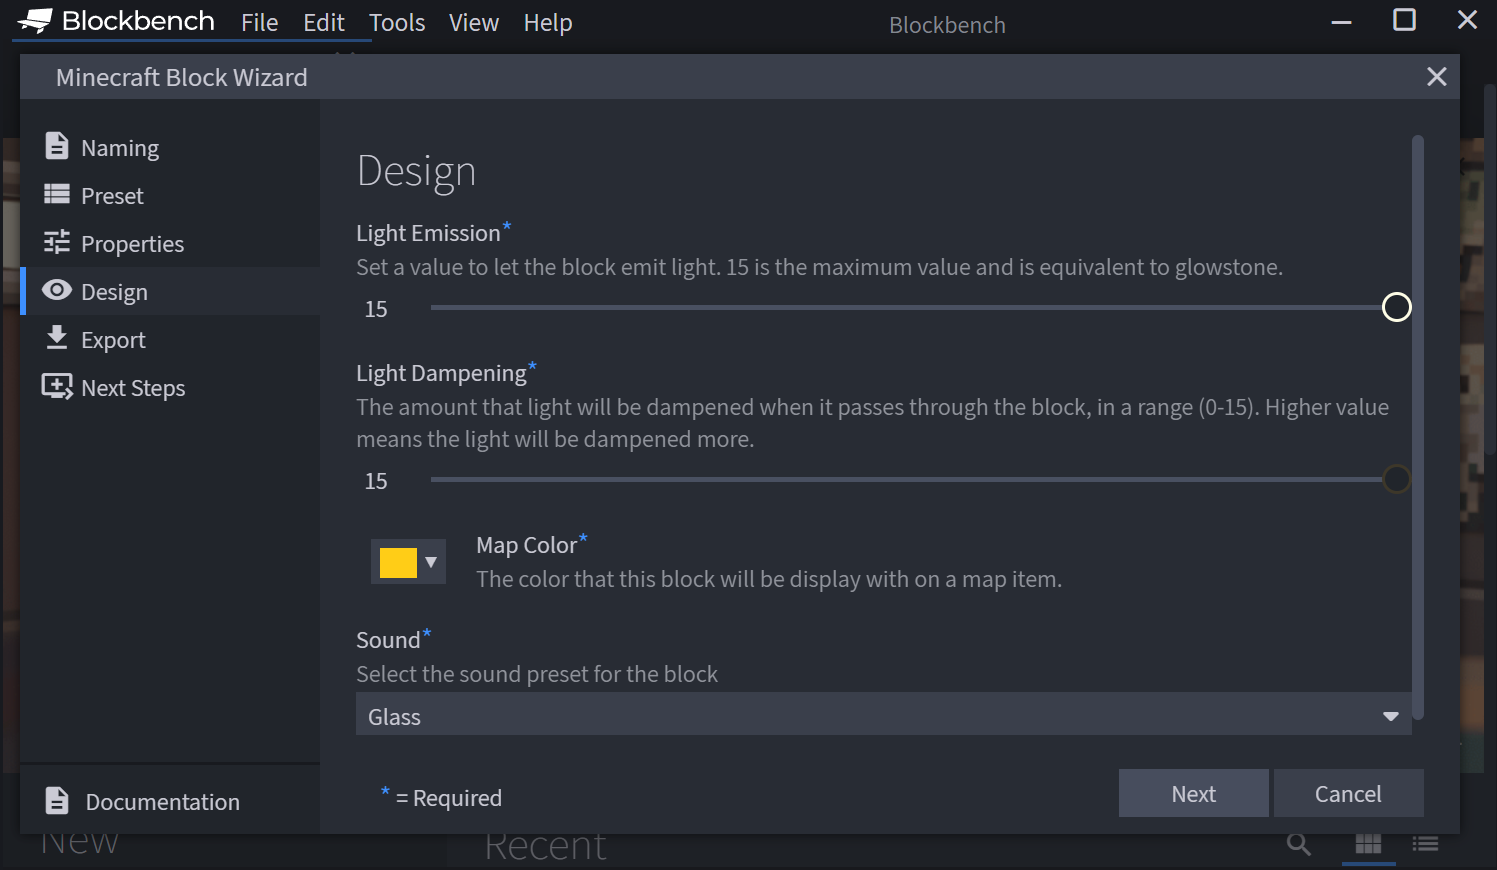
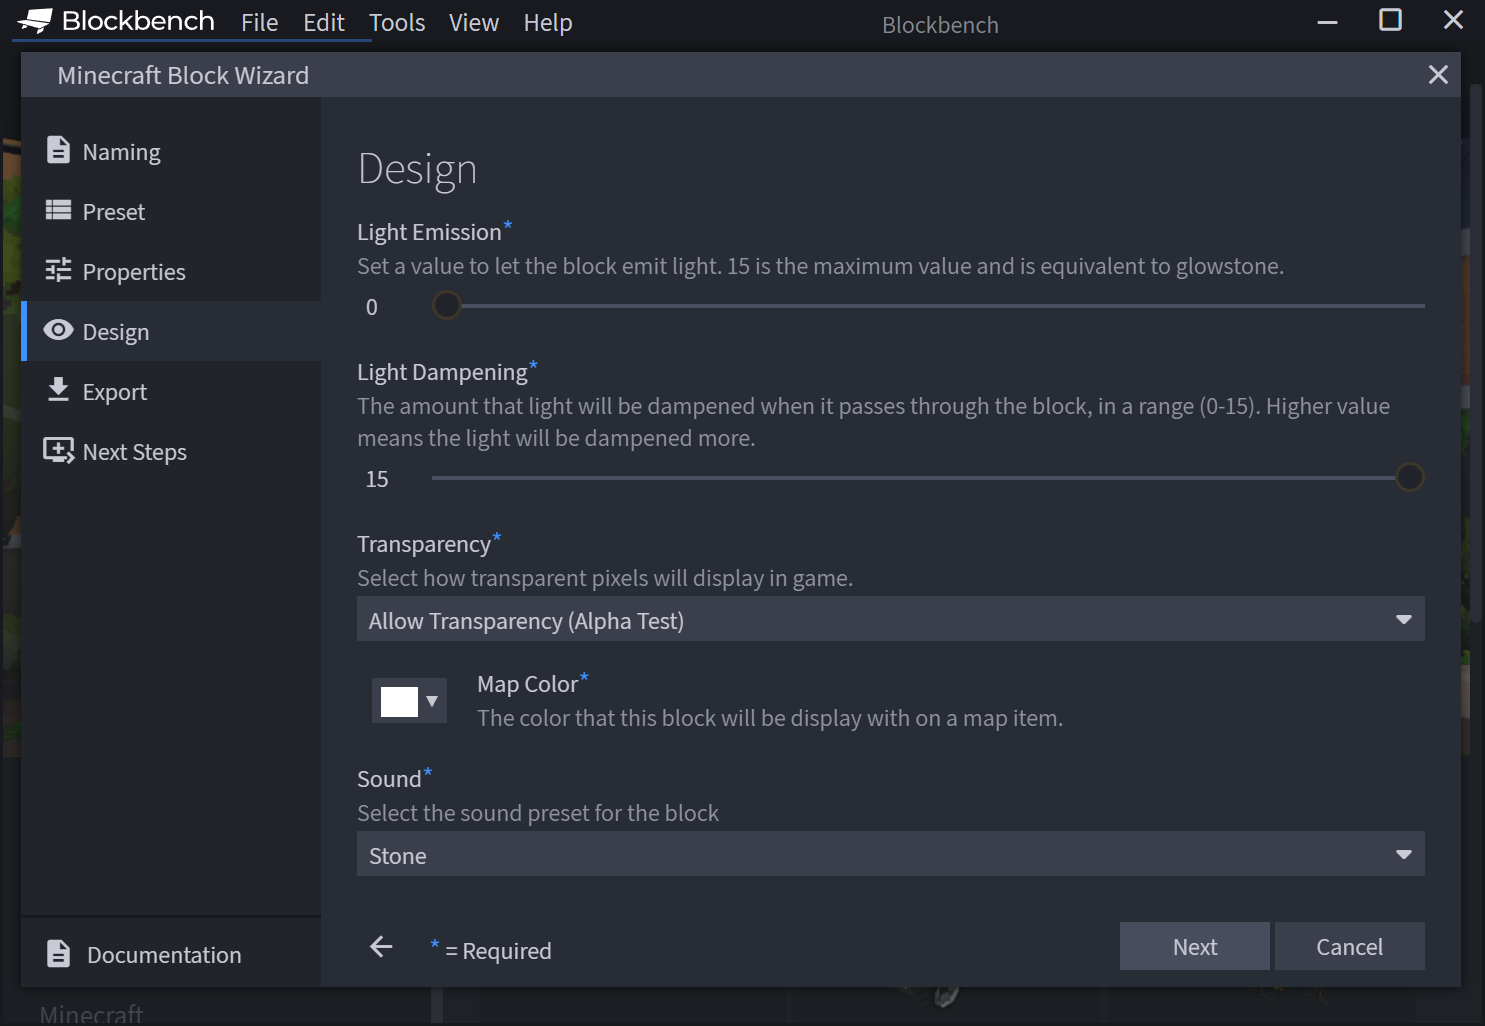
edits
Jannis's edits

diff --git a/creator/Documents/MinecraftBlockWizard.md b/creator/Documents/MinecraftBlockWizard.md
@@ -12,7 +12,7 @@ The Minecraft Block Wizard is a plugin for Blockbench. It allows you to add a cu
 
 After you have created a custom block with the Wizard, you can use Blockbench to design a custom 3D model for it.
 
-The plugin works similarly to the [Minecraft Entity Wizard](https://www.minecraft.net/en-us/creator/article/introduction-minecraft-entity-wizard-blockbench) you can use to create custom entities.
+The plugin works similarly to the [Minecraft Entity Wizard](https://www.minecraft.net/en-us/creator/article/introduction-minecraft-entity-wizard-blockbench), which you can use to create custom entities.
 
 ### [Video Description Header]
 
@@ -95,9 +95,17 @@ On this page, you can change multiple properties related to the design and sound
 
 :::image type="content" source="Media/MinecraftBlockWizard/design.png" alt-text="Minecraft Block Wizard showing where Creators can set the design properties.":::
 
+- **Use current model**: This option appears when you already have a bedrock block model currently opened in Blockbench. You can enable the checkbox to export the current model, instead of using the model of the preset block that you selected.
+
 - **Light Emission**: Use this slider to turn your block into a light source. The brightest possible value is 15, which is the equivalent of glow stone.
 
 - **Light Dampening**: Set how much the block dampens the light that passes through it. A mostly transparent block like a button would have a value of 0, a solid block like stone would have a value of 15 and block all light from coming through. Blocks that let some light through, such as leaves, would be somewhere in between.
+
+- **Transparency**: With this option you can select the material for the block, which will determine how transparent textures are rendered in Minecraft:
+
+    - **Allow Transparency (Alpha Test)**: This option lets you use either fully opaque or fully transparent pixels. The option is great for models like plants.
+    - **Allow Translucency (Blend)**: This option lets you use fully transparent, fully opaque, or partially transparent pixels. Partially transparent pixels can be good for see-through materials like water or slime. However, the material has a slightly larger impact on performance and can in some cases cause unexpected visual glitches, so it is best to only use this option when necessary.
+    - **No Transparency (Opaque)**: With this option, the texture will be rendered as opaque. Transparent pixels will look black instead. This option is good for models with solid elements, like rocks and chairs.
 
 - **Map Color**: Pick the color that your block will have when displayed on a map in Minecraft. This is the map that can be crafted from paper and a compass.
 
